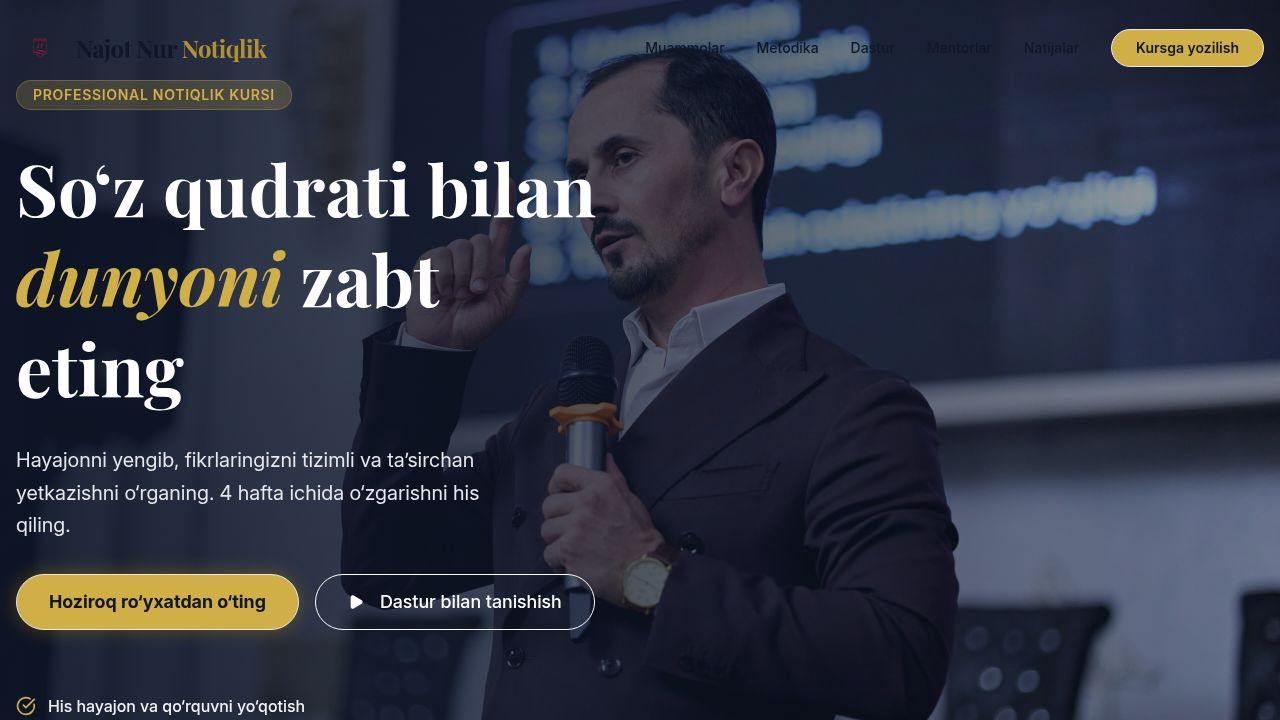
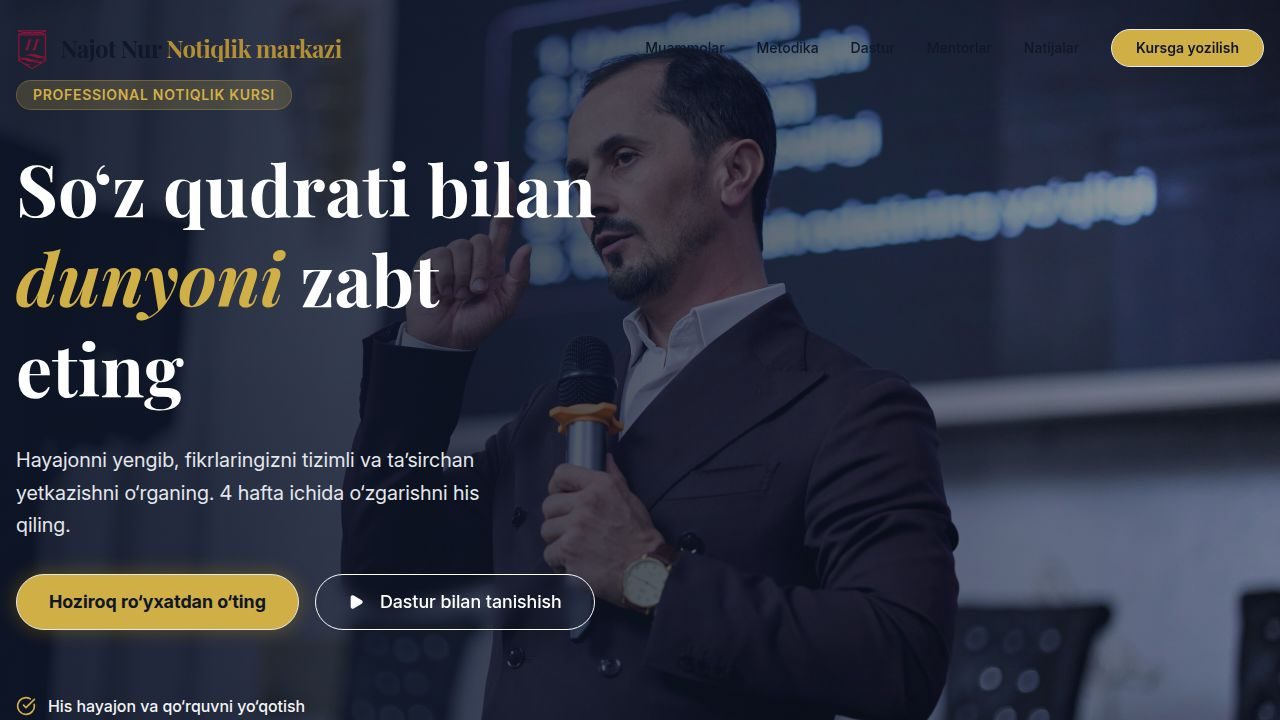
Update brand text to "Notiqlik markazi" in navbar and footer
Update the brand text in the navbar and footer from "Notiqlik" to "Notiqlik markazi", and increment the localStorage key from "site_content_v6" to "site_content_v7".

Replit-Commit-Author: Agent
Replit-Commit-Session-Id: 3004d751-e82f-4642-b895-f14faee1f929
Replit-Commit-Checkpoint-Type: full_checkpoint
Replit-Commit-Event-Id: 339163ac-f172-49e4-90e7-74c94450e2e1
Replit-Commit-Screenshot-Url: https://storage.googleapis.com/screenshot-production-us-central1/6573f96e-9154-4db9-925a-66472fdb0da1/3004d751-e82f-4642-b895-f14faee1f929/LViH2oS
Replit-Helium-Checkpoint-Created: true

diff --git a/client/src/lib/contentContext.tsx b/client/src/lib/contentContext.tsx
@@ -91,7 +91,7 @@ export interface ContentState {
 export const defaultContent: ContentState = {
   navbar: {
     logoText: "Najot Nur",
-    logoHighlight: "Notiqlik",
+    logoHighlight: "Notiqlik markazi",
     logoImage: "/logo_v3.png",
     ctaText: "Kursga yozilish",
     links: [
@@ -196,7 +196,7 @@ export const defaultContent: ContentState = {
   },
   footer: {
     brandText: "Najot Nur",
-    brandHighlight: "Notiqlik",
+    brandHighlight: "Notiqlik markazi",
     description: "Bizning maqsadimiz - har bir insonning o‘z fikrini erkin va ishonchli yetkaza olishiga ko‘maklashish.",
     phone: "+998 71 200 11 22",
     address: "Toshkent sh., Chilonzor tumani",
@@ -217,7 +217,7 @@ const ContentContext = createContext<{
 
 export const ContentProvider = ({ children }: { children: ReactNode }) => {
   const [content, setContent] = useState<ContentState>(() => {
-    const saved = localStorage.getItem("site_content_v6");
+    const saved = localStorage.getItem("site_content_v7");
     // Check if the saved content has the new fields (simple migration check)
     // If not, merge with default to ensure new fields exist
     if (saved) {
@@ -226,7 +226,8 @@ export const ContentProvider = ({ children }: { children: ReactNode }) => {
         const merged = { 
             ...defaultContent, 
             ...parsed, 
-            navbar: { ...defaultContent.navbar, ...parsed.navbar, logoImage: "/logo_v3.png" }, // Force new logo
+            navbar: { ...defaultContent.navbar, ...parsed.navbar, logoHighlight: "Notiqlik markazi", logoImage: "/logo_v3.png" }, // Force new logo and text
+            footer: { ...defaultContent.footer, ...parsed.footer, brandHighlight: "Notiqlik markazi" }, // Force footer text
             hero: { ...defaultContent.hero, ...parsed.hero }
         };
         return merged;
@@ -235,7 +236,7 @@ export const ContentProvider = ({ children }: { children: ReactNode }) => {
   });
 
   useEffect(() => {
-    localStorage.setItem("site_content_v6", JSON.stringify(content));
+    localStorage.setItem("site_content_v7", JSON.stringify(content));
   }, [content]);
 
   const updateContent = (newContent: Partial<ContentState>) => {

diff --git a/client/src/components/landing/Footer.tsx b/client/src/components/landing/Footer.tsx
@@ -13,7 +13,7 @@ export default function Footer() {
           {/* Brand */}
           <div>
             <a href="#" className="text-2xl font-serif font-bold tracking-tight text-white block mb-6">
-              {content.footer.brandText} <span className="text-gold-500">{content.footer.brandHighlight}</span>
+              {content.footer.brandText} <span className="text-gold-500 text-[22px]">{content.footer.brandHighlight}</span>
             </a>
             <p className="text-gray-400 leading-relaxed mb-6">
               {content.footer.description}
